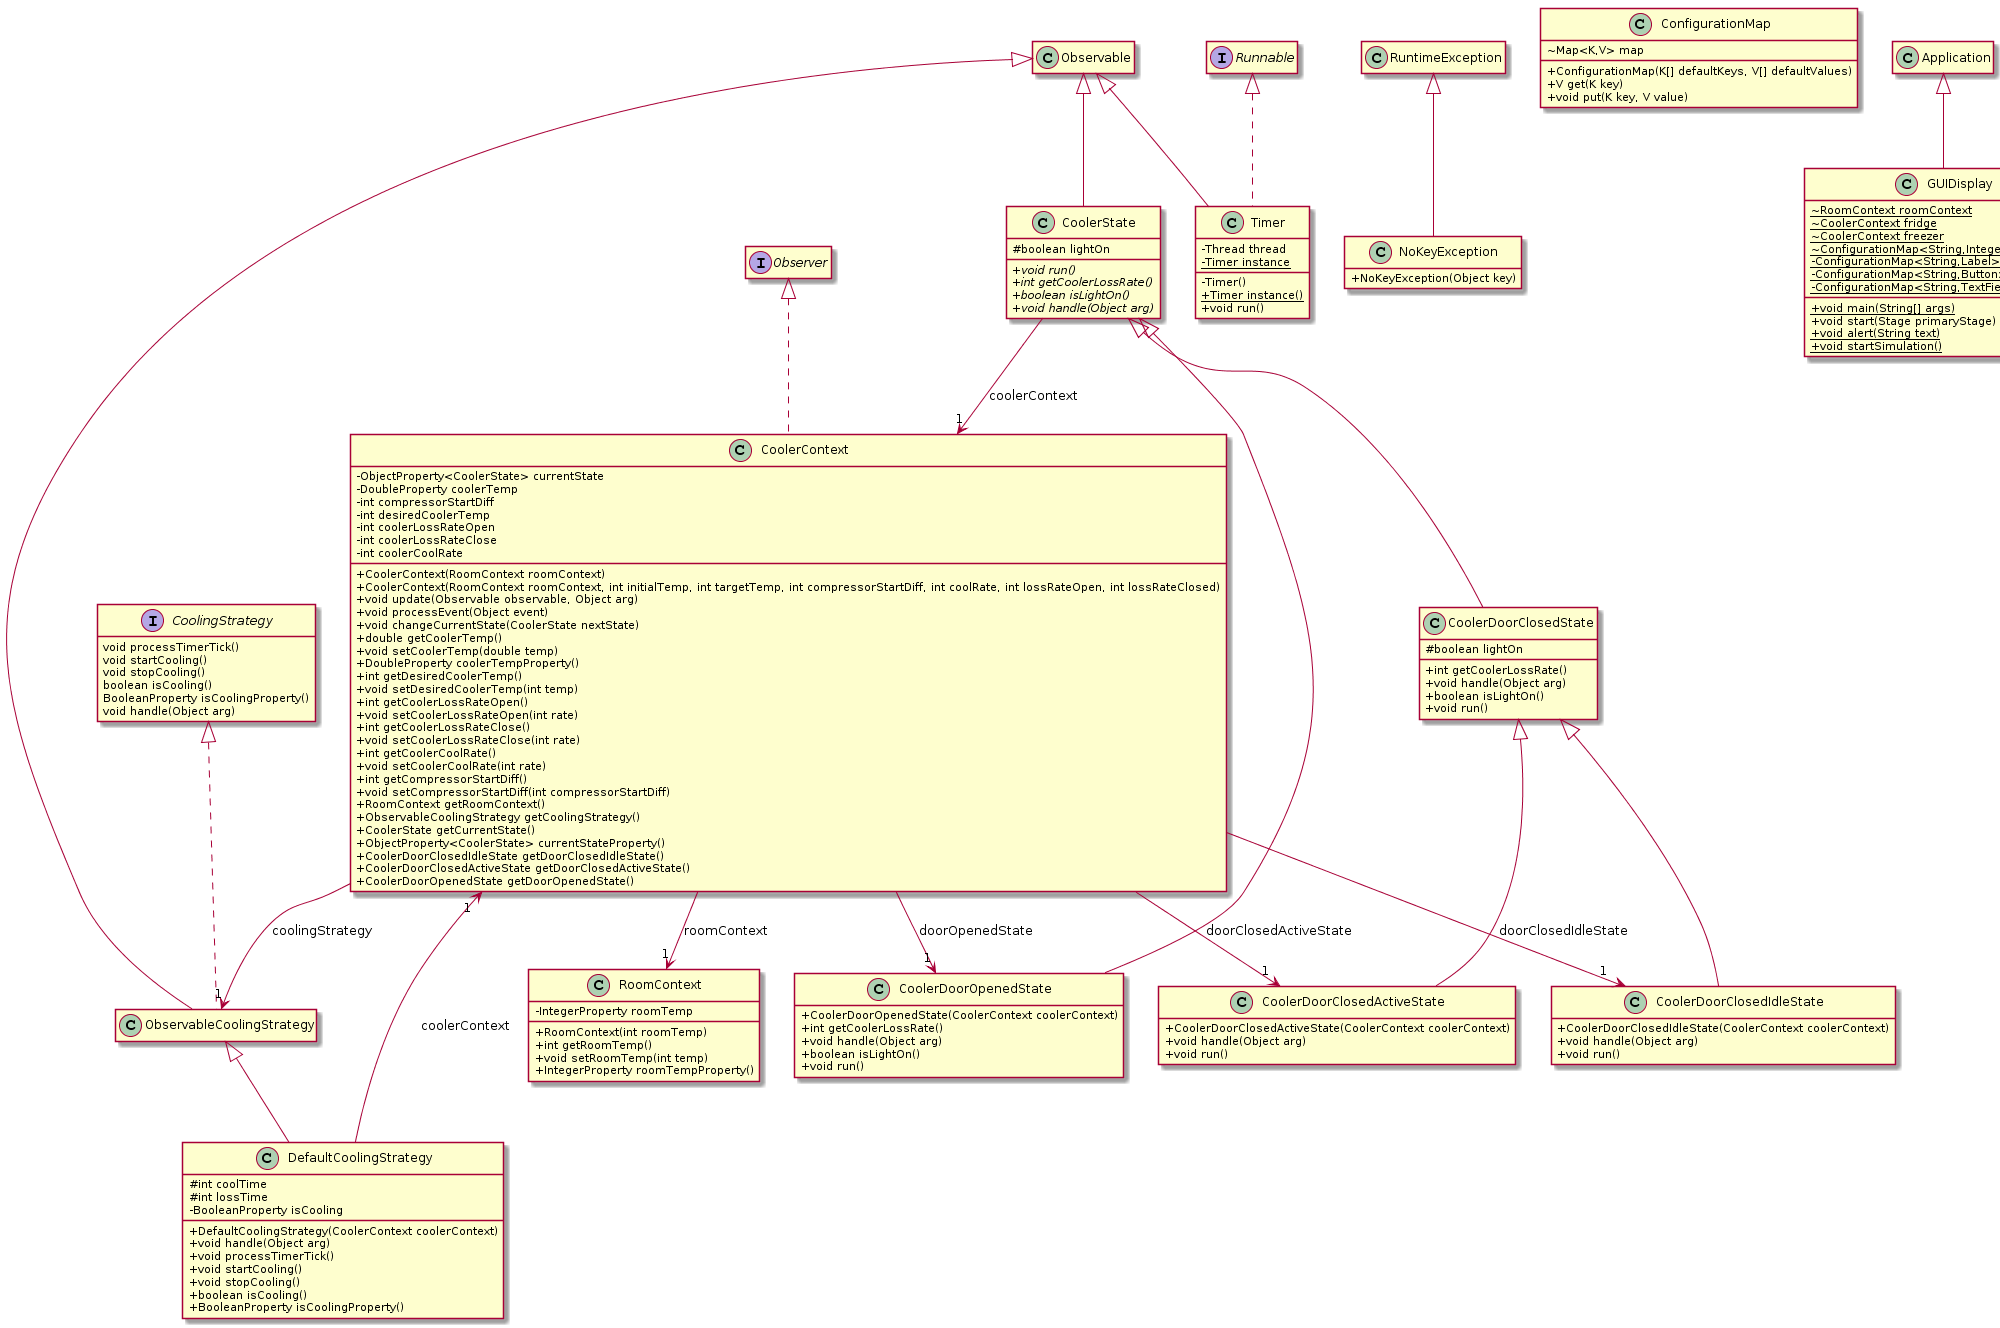
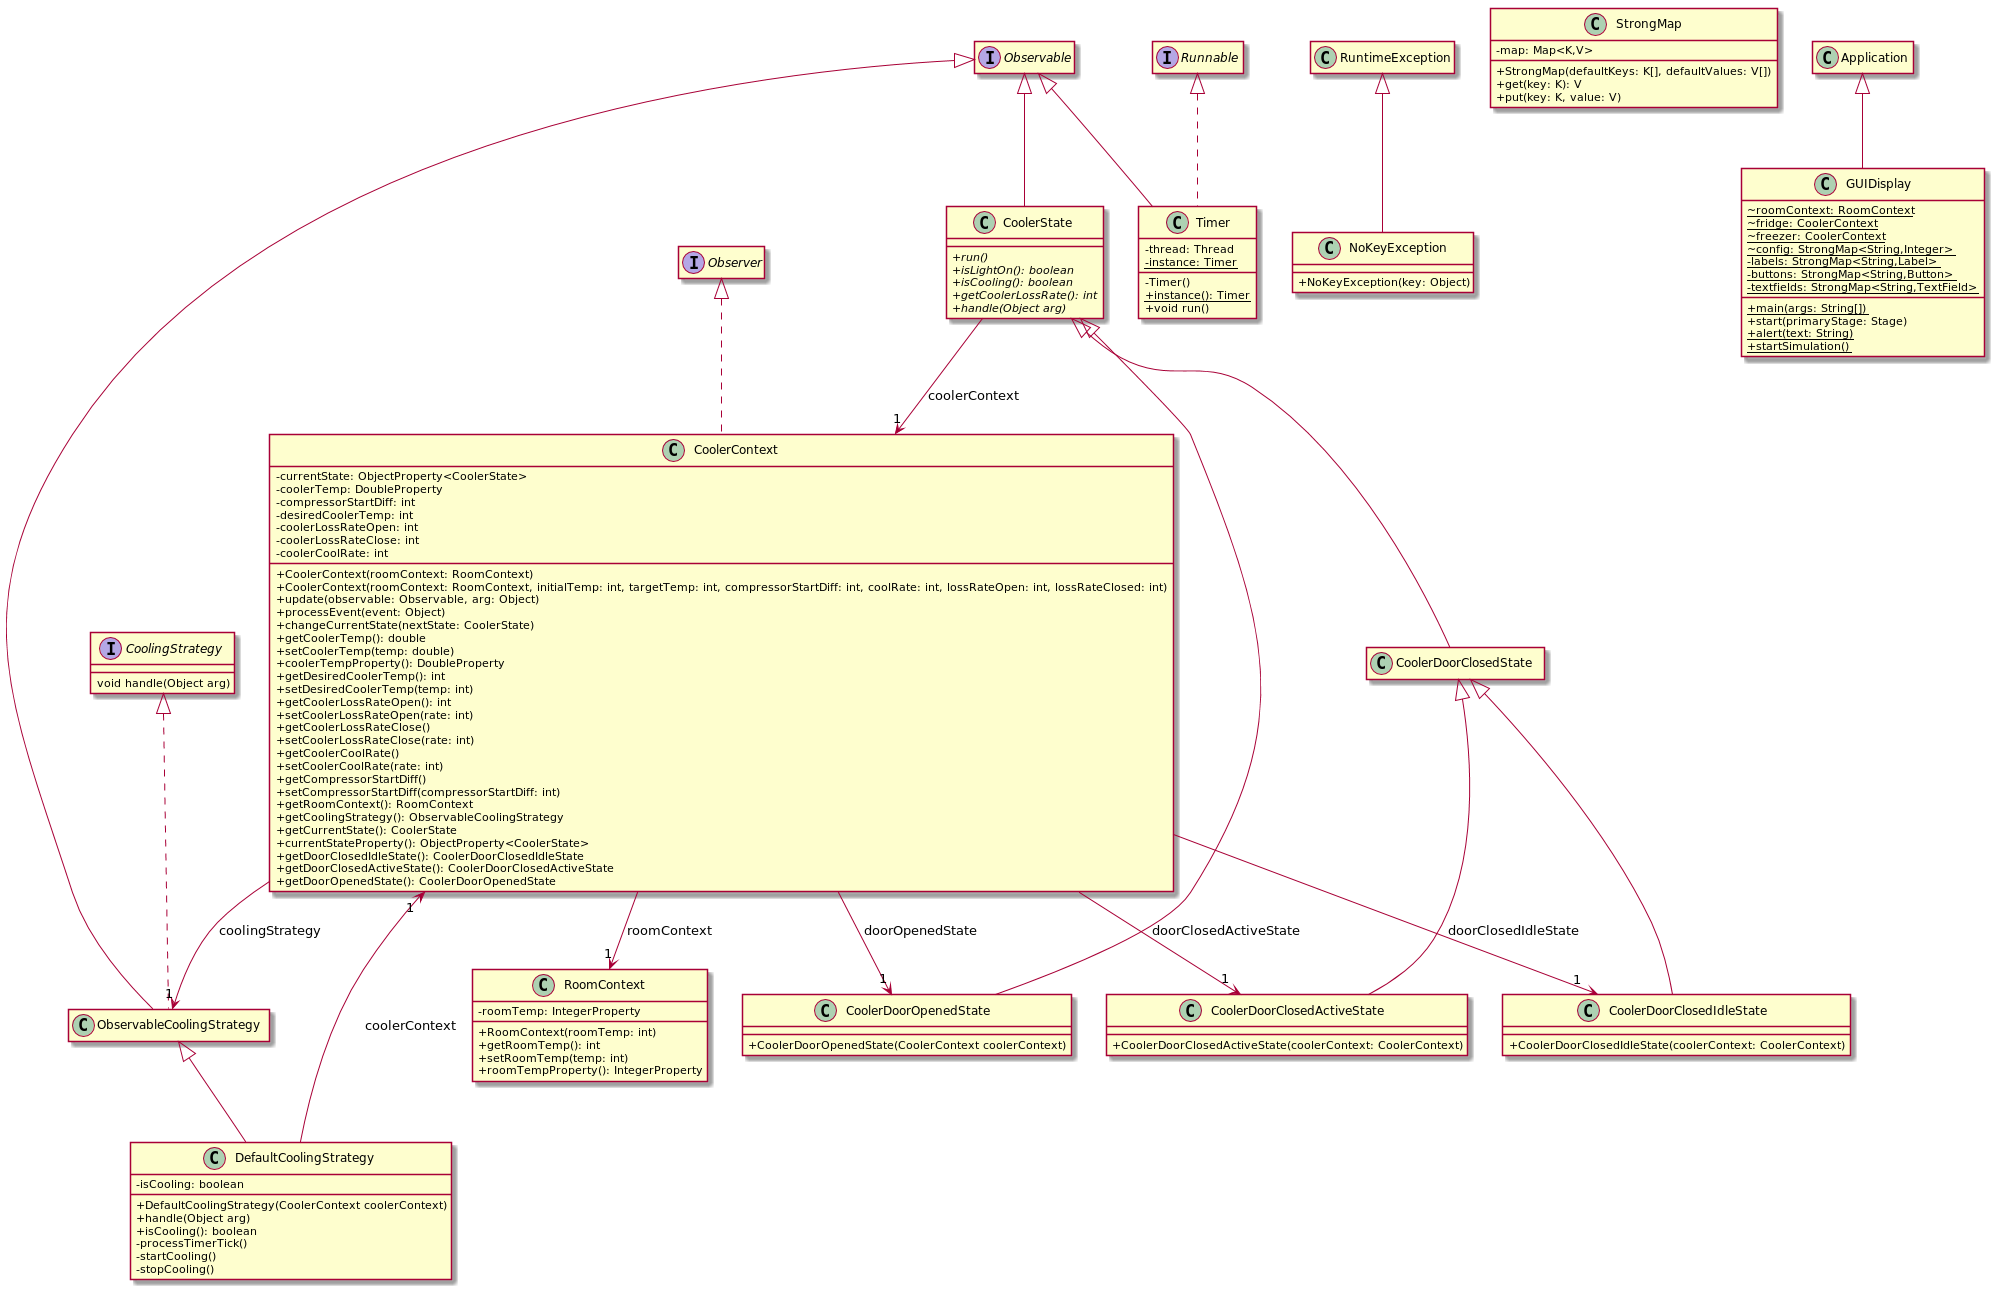
Updated class diagram.
...Not perfect, but at least fixes the most glaring flaws.

diff --git a/src/DefaultCoolingStrategy.java b/src/DefaultCoolingStrategy.java
@@ -4,18 +4,6 @@
  */
 public class DefaultCoolingStrategy extends ObservableCoolingStrategy {
     /**
-     * How long the cooler has been cooling (how long the compressor has been active) since the last change in the cooler's temperature.
-     * This is reset once the cooler temperature drops, which happens once the this number reaches the cooling rate.
-     */
-    protected int coolTime = 0;
-
-    /**
-     * How long the cooler has been running (on or off) since the last temperature change.
-     * This is reset once the cooler temperature increases, which happens once this number reaches the loss rate.
-     */
-    protected int lossTime = 0;
-
-    /**
      * Whether or not we are currently cooling.
      */
     private boolean isCooling = false;

diff --git a/src/StrongMap.java b/src/StrongMap.java
@@ -8,7 +8,7 @@ public class StrongMap<K, V> {
     /**
      * The map storing our StrongMap.
      */
-    Map<K, V> map = new HashMap();
+    private Map<K, V> map = new HashMap();
 
 
     /**
